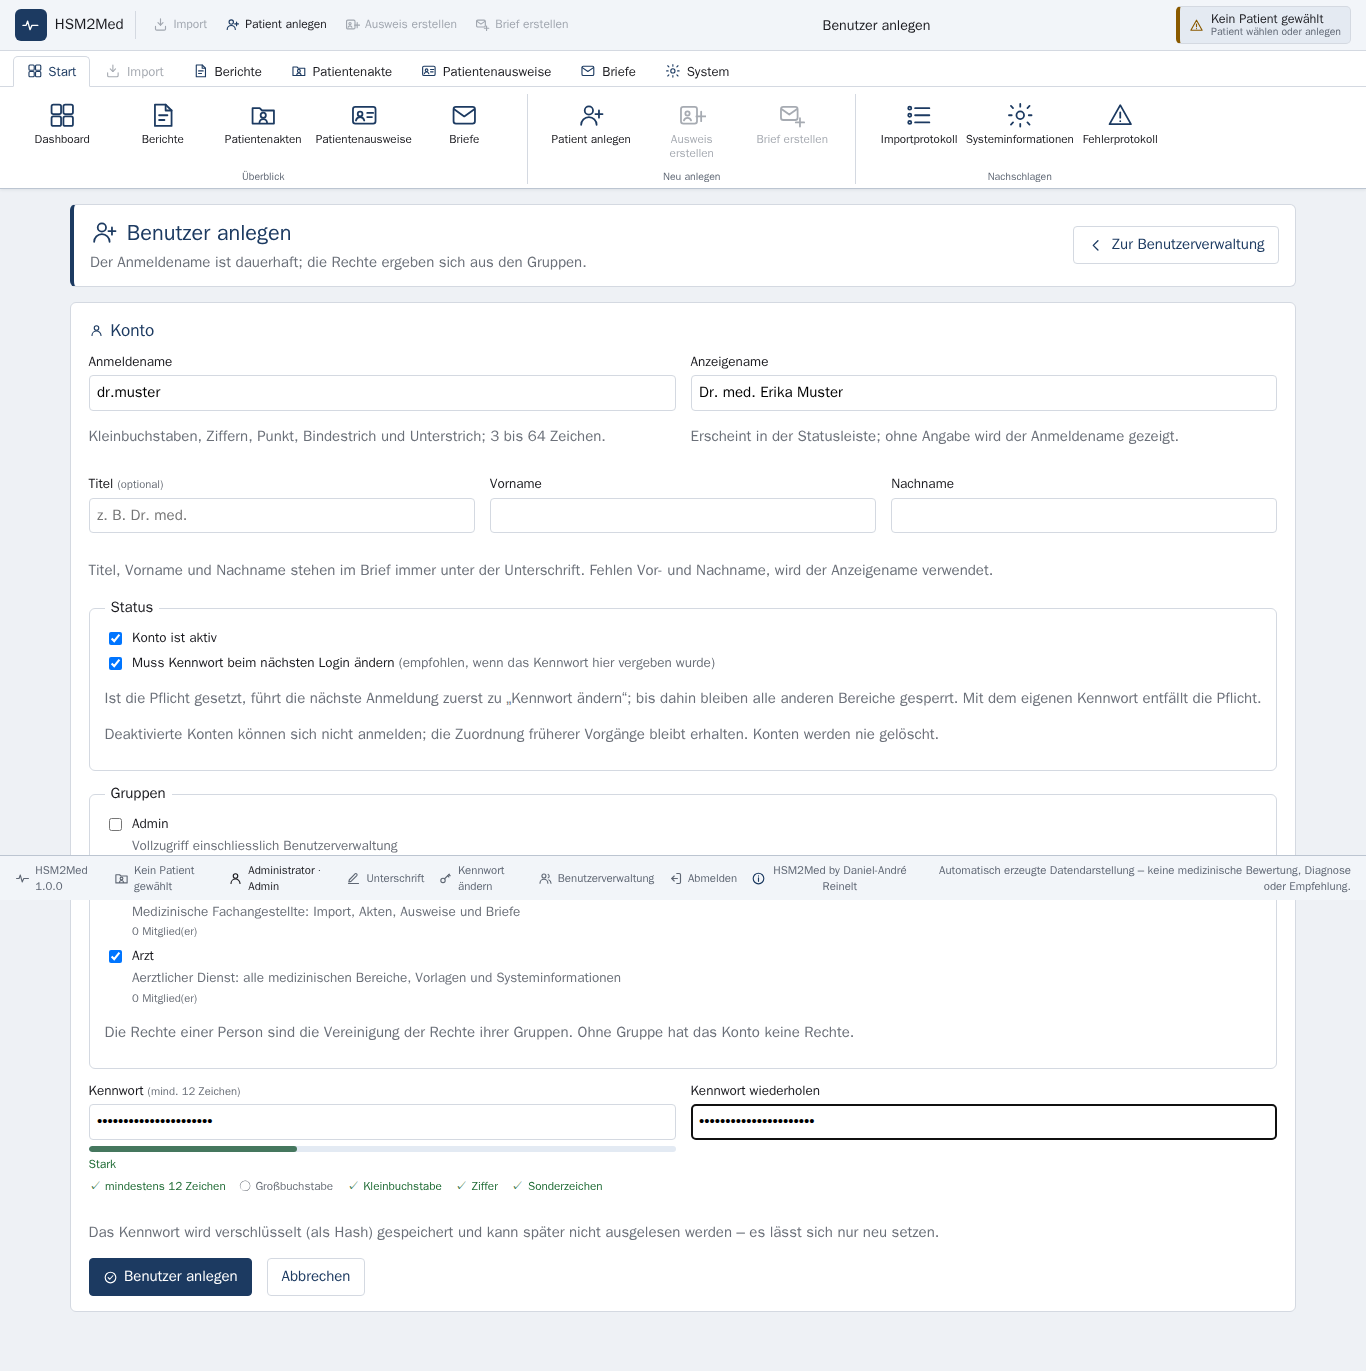
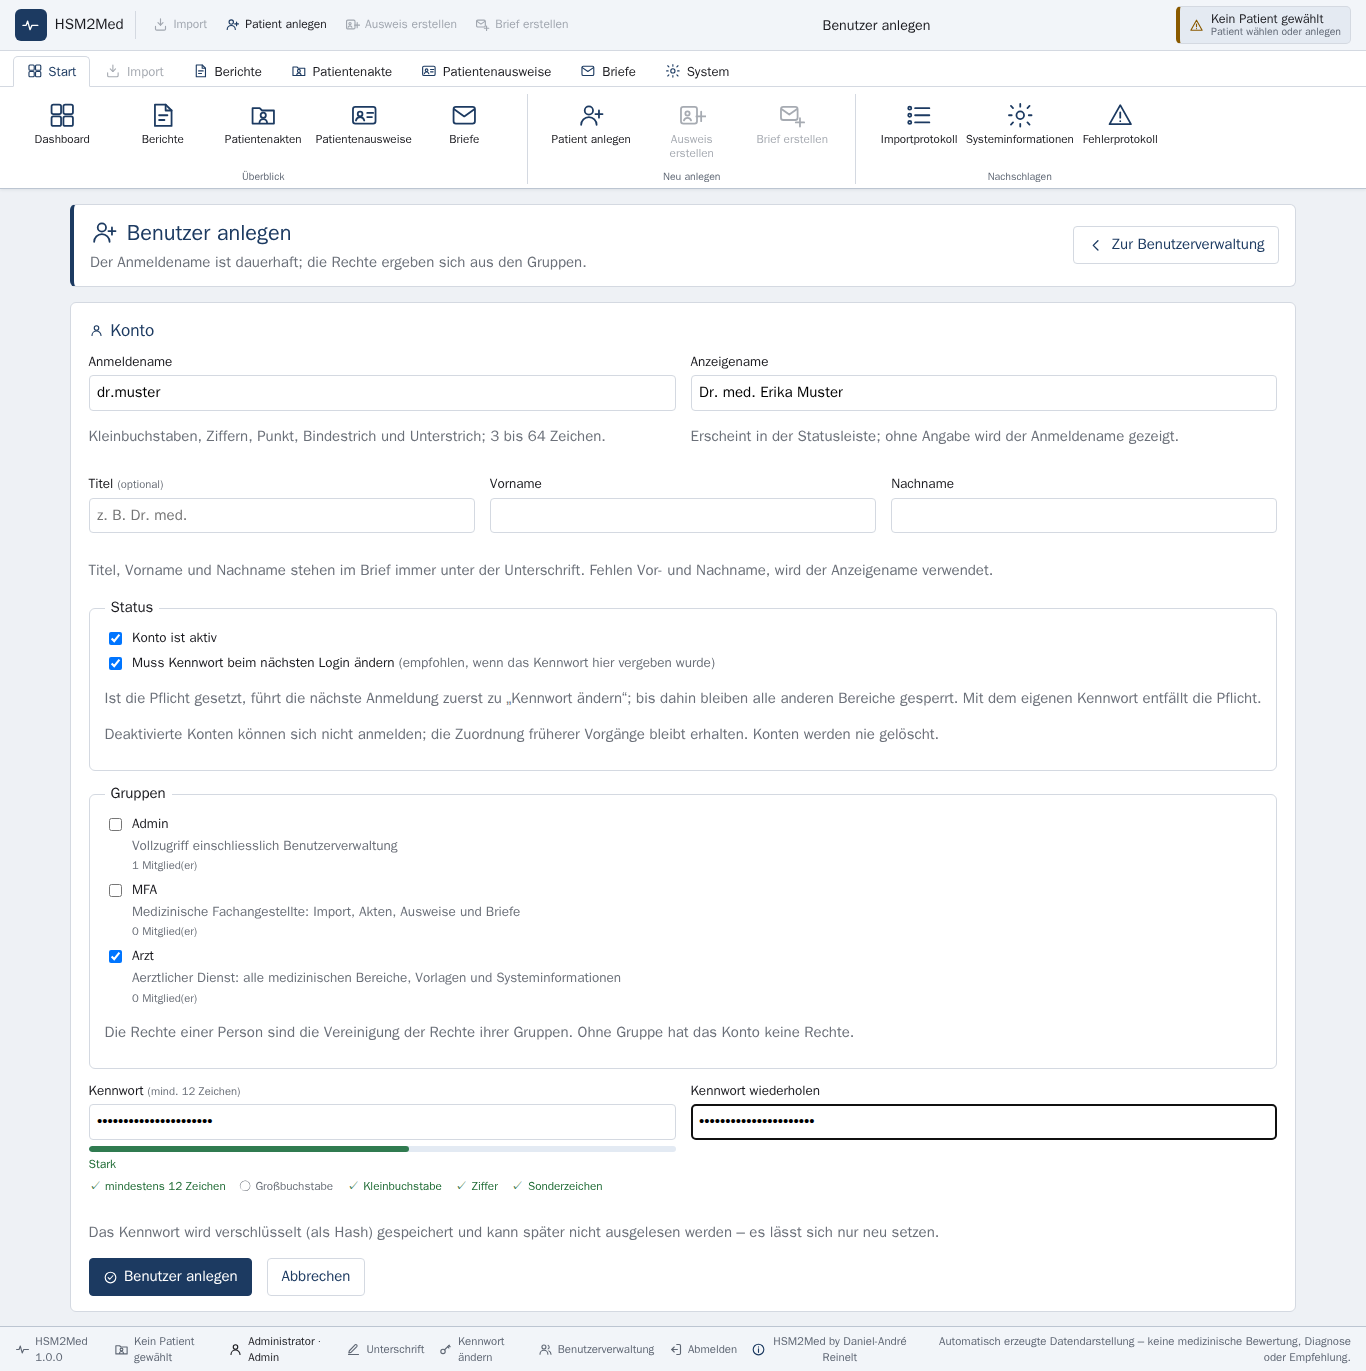
Screenshots: Statusleiste nicht mehr mitten im Bild
Die Statusleiste klebt am unteren Bildrand. Bei ganzseitigen Aufnahmen rendert Chromium sie an der Scrollposition des Ansichtsfensters, sodass sie mitten im Bild erschien. shot() setzt das Ansichtsfenster jetzt auf die Seitenhoehe, bevor aufgenommen wird. Screenshot 56 neu erzeugt.

diff --git a/docs/screenshots/capture.py b/docs/screenshots/capture.py
@@ -85,6 +85,13 @@ def shot(page: Page, name: str, full_page: bool = True) -> None:
         # Seite bereits gescrollt; Chromium rendert klebende Elemente dann an der aktuellen
         # Scrollposition und der Seitenkopf fehlt am oberen Bildrand. Deshalb zurueckscrollen.
         page.evaluate("window.scrollTo(0, 0)")
+        # Die Statusleiste klebt am unteren Bildrand und erscheint bei einer ganzseitigen
+        # Aufnahme sonst mitten im Bild. Darum das Ansichtsfenster auf die Seitenhoehe setzen.
+        height = page.evaluate("Math.ceil(document.documentElement.scrollHeight)")
+        if height > page.viewport_size["height"]:
+            page.set_viewport_size({"width": VIEWPORT["width"], "height": height})
+            page.evaluate("window.scrollTo(0, 0)")
+            full_page = False
     page.screenshot(path=str(target), full_page=full_page)
     print(f"  {target.name}")
 
